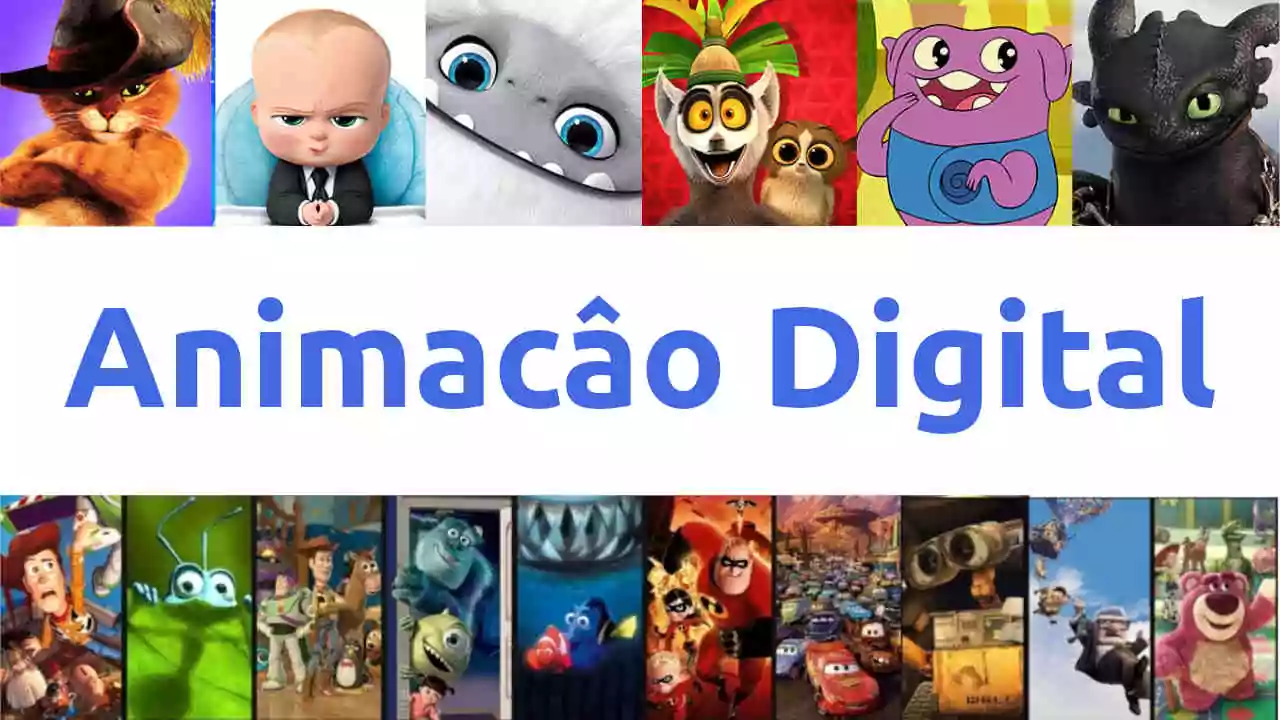
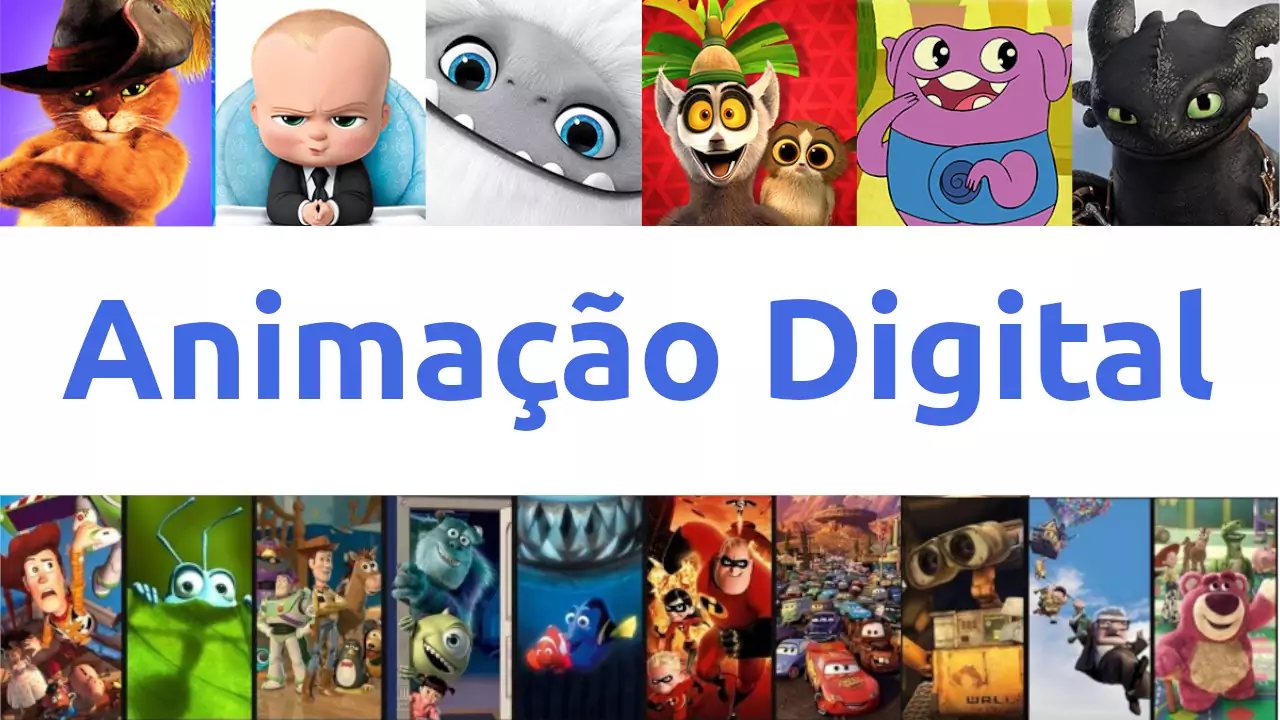
Renomeando arquivos de imagem

diff --git a/animacao/animacaoArtistas.php b/animacao/animacaoArtistas.php
@@ -9,7 +9,7 @@
                 <div class="col-md-12">
                     <img class="img-fluid  align-items-center" alt=" Foto de Alvy Ray Smith "
                         style='float:left;width:500px; margin-right:20px;'
-                        src="../imagem/animacao/animacaoAlvyRaySmith.jpg" />
+                        src="../imagem/animacao/animacaoAlvyRaySmith.webp" />
                     <h2 class=" text-center animacaoh1">Alvy Ray Smith</h2>
                     <p class=" text-justify">Alvy Ray Smith (Mineral Wells, Texas, 8 de setembro de 1943) é um
                         engenheiro estadunidense e um pioneiro da computação gráfica.
@@ -48,7 +48,7 @@
             <div class="row">
                 <div class="col-md-4">
                     <img class="img-fluid  align-items-center" alt=" Foto de Alvy Ray Smith "
-                        style='width:100%; margin-top:20px;' src="../imagem/animacao/animacaoNeilHuxley.jpeg" />
+                        style='width:100%; margin-top:20px;' src="../imagem/animacao/animacaoNeilHuxley.webp" />
                     <h2 class=" text-center animacaoh1">Neil Huxley</h2>
                     <p class=" text-justify">
                         Na esfera comercial, a ação ao vivo de Neil e a direção de efeitos visuais são celebradas por
@@ -59,7 +59,7 @@
                         vivo e baseados em FX, que incluem o trailer de lançamento de Transformers: Fall of Cybertron,
                         Mad Max, Rise of the Tomb Raider e Assassin's Creed Unity, além de vários filmes </p>
                     <img class="img-fluid  align-items-center" alt=" Foto de Alvy Ray Smith "
-                        style='width:100%; margin-top:20px;' src="../imagem/animacao/animacaoRay.jpg" />
+                        style='width:100%; margin-top:20px;' src="../imagem/animacao/animacaoRay.webp" />
                     <h2 class=" text-center animacaoh1">Ray Harryhausen </h2>
                     <p class=" text-justify">Ray Harryhausen (Los Angeles, 29 de junho de 1920 - 7 de maio de 2013 )
                         nascido como Raymond Frederick Harryhausen foi um profissional da área de animação stop motion,
@@ -85,11 +85,11 @@
                         série de televisão Hi Hi Puffy AmiYumi. Hoje ele está novamente na House of Mouse, novamente
                         projetando para recursos animados.</p>
                     <img class="img-fluid  align-items-center" alt=" Foto de Alvy Ray Smith "
-                        style='width:100%;  margin-top:20px;' src="../imagem/animacao/animacaoMike.jpg" />
+                        style='width:100%;  margin-top:20px;' src="../imagem/animacao/animacaoMike.webp" />
                 </div>
                 <div class="col-md-4">
                     <img class="img-fluid  align-items-center" alt=" Foto de Alvy Ray Smith "
-                        style='width:100%;   margin-top:20px;' src="../imagem/animacao/animacaoFausto.jpg" />
+                        style='width:100%;   margin-top:20px;' src="../imagem/animacao/animacaoFausto.webp" />
                     <h2 class=" text-center animacaoh1">Alvy Ray Smith</h2>
                     <p class=" text-justify">"Comecei minha carreira trabalhando para a indústria de propaganda no
                         Brasil,
@@ -112,10 +112,10 @@
                 <div class="col-md-12">
                     <img class="img-fluid  align-items-center" alt="Logotipo da"
                         style=' width:100%; margin: 20px auto 20px auto;'
-                        src="../imagem/animacao/animacaoPixarLogo.jpg" />
+                        src="../imagem/animacao/animacaoPixarLogo.webp" />
                     <img class="img-fluid  align-items-center" alt=""
                         style='float:right ;width:500px; margin-left:20px;'
-                        src="../imagem/animacao/animacaoJohnAlanLasseter.jpg" />
+                        src="../imagem/animacao/animacaoJohnAlanLasseter.webp" />
                     <h2 class=" text-center animacaoh1">John Alan Lasseter</h2>
                     <p class=" text-justify">John Alan Lasseter (Los Angeles, 12 de janeiro de 1957) é um diretor e
                         produtor americano. Ele é mais conhecido por ser o diretor de criação da Pixar, Walt Disney
@@ -130,7 +130,7 @@
                         Lasseter também supervisiona todos os filmes da Walt Disney Animation Studios (e DisneyToon
                         Studios) e projetos associados como produtor executivo.
                         Ele ganhou dois Oscar, por melhor curta-metragem de animação (por Tin Toy), além de um Prêmio de
-                        Realização Especial (por Toy Story).[2]</p>
+                        Realização Especial (por Toy Story).</p>
                     <h3 class=" text-center animacaoh1">Carreira</h3>
                     <p class=" text-justify">Em 1979, depois de ganhar certo prestigio na CalArts ao receber um Student
                         Academy Awards, prêmio de votação popular da facudade para trabalhos de estudantes, pelo seu
@@ -141,7 +141,7 @@
                         Awards, desta vez por "Nitemare", curta que escreveu e dirigiu como trabalho de seu último ano.
                         <img class="img-fluid  align-items-center" alt="Duas luminarias olhanda para uma bola"
                             style='float:left ;width:500px; margin:20px 20px 20px 0px;'
-                            src="../imagem/animacao/animacaoWallb.jpg" />
+                            src="../imagem/animacao/animacaoWallb.webp" />
                         Foi dentro dos seus cinco anos de trabalho como animador na Disney que John teve sua primeira
                         experiência em animação digital. Durante a produção do filme TRON, de 1982, que misturava atores
                         com computação gráfica, que Lasseter vislumbrou o poder que a nova tecnologia podia gerar. Com o
@@ -169,7 +169,7 @@
                         investir outros cinco em capital.
                         <img class="img-fluid  align-items-center" alt="Duas luminarias olhanda para uma bola"
                             style='float:right ;width:500px; margin:20px 0px 20px 20px;'
-                            src="../imagem/animacao/animacaoluxojr.jpg" />
+                            src="../imagem/animacao/animacaoluxojr.webp" />
                         Com um novo dono, novos recursos e um foco diferente para se trabalhar, a
                         então divisão da Lucasfilm virou a Pixar Inc., empresa que continuava a desenvolver hardware
                         para animação digital, mas que mantinha John Lasseter na folha de pagamento como "chefe de

diff --git a/animacao/animacaoGaleria.php b/animacao/animacaoGaleria.php
@@ -6,40 +6,40 @@
     <section class="animacaoGaleria">
         <div class=" row imagensGaleria">
             <div class=" col-lg-3 galeria ">
-                <a><img src="../imagem/animacao/animacaoAlvyRaySmith.jpg"style="width:90%" ></a>
-                <a><img src="../imagem/animacao/animacaoStarTrekEspecial.jpg" style="width:90%"></a>
-                <a><img src="../imagem/animacao/animacaoTinToy.jpg" style="width:90%" ></a>
-                <a><img src="../imagem/animacao/animacaoMike.jpg" style="width:90%"></a>
-                <a><img src="../imagem/animacao/animacaoFrozen.jpg" style="width:90%"></a>
-                <a><img src="../imagem/animacao/animacaoTinToy.jpg" style="width:90%"></a>
-                <a><img src="../imagem/animacao/animacaoWallb.jpg"style="width:90%"></a>
+                <a><img src="../imagem/animacao/animacaoAlvyRaySmith.webp"style="width:90%" ></a>
+                <a><img src="../imagem/animacao/animacaoStarTrekEspecial.webp" style="width:90%"></a>
+                <a><img src="../imagem/animacao/animacaoTinToy.webp" style="width:90%" ></a>
+                <a><img src="../imagem/animacao/animacaoMike.webp" style="width:90%"></a>
+                <a><img src="../imagem/animacao/animacaoFrozen.webp" style="width:90%"></a>
+                <a><img src="../imagem/animacao/animacaoTinToy.webp" style="width:90%"></a>
+                <a><img src="../imagem/animacao/animacaoWallb.webp"style="width:90%"></a>
             </div>
             <div class=" col-lg-3 galeria ">
-                <a><img src="../imagem/animacao/animacaoJohnAlanLasseter.jpg"style="width:90%" ></a>
-                <a><img src="../imagem/animacao/animacaoJohnAlanLasseter.jpg" style="width:90%"></a>
-                <a><img src="../imagem/animacao/animacaoCraigGood.jpg" style="width:90%" ></a>
-                <a><img src="../imagem/animacao/animacaoFausto.jpg" style="width:90%"></a>
-                <a><img src="../imagem/animacao/animacaoNeilHuxley.jpeg" style="width:90%"></a>
-                <a><img src="../imagem/animacao/animacaoTinToy.jpg" style="width:90%"></a>
-                <a><img src="../imagem/animacao/animacaoWallb.jpg"style="width:90%"></a>
+                <a><img src="../imagem/animacao/animacaoJohnAlanLasseter.webp"style="width:90%" ></a>
+                <a><img src="../imagem/animacao/animacaoJohnAlanLasseter.webp" style="width:90%"></a>
+                <a><img src="../imagem/animacao/animacaoCraigGood.webp" style="width:90%" ></a>
+                <a><img src="../imagem/animacao/animacaoFausto.webp" style="width:90%"></a>
+                <a><img src="../imagem/animacao/animacaoNeilHuxley.webp" style="width:90%"></a>
+                <a><img src="../imagem/animacao/animacaoTinToy.webp" style="width:90%"></a>
+                <a><img src="../imagem/animacao/animacaoWallb.webp"style="width:90%"></a>
             </div>
             <div class=" col-lg-3 galeria ">
-                <a><img src="../imagem/animacao/animacaoCraigGood.jpg"style="width:90%" ></a>
-                <a><img src="../imagem/animacao/animacaoJohnAlanLasseter.jpg" style="width:90%"></a>
-                <a><img src="../imagem/animacao/animacaoCraigGood.jpg" style="width:90%" ></a>
-                <a><img src="../imagem/animacao/animacaoFausto.jpg" style="width:90%"></a>
-                <a><img src="../imagem/animacao/animacaoNeilHuxley.jpeg" style="width:90%"></a>
-                <a><img src="../imagem/animacao/animacaoTinToy.jpg" style="width:90%"></a>
-                <a><img src="../imagem/animacao/animacaoWallb.jpg"style="width:90%"></a>
+                <a><img src="../imagem/animacao/animacaoCraigGood.webp"style="width:90%" ></a>
+                <a><img src="../imagem/animacao/animacaoJohnAlanLasseter.webp" style="width:90%"></a>
+                <a><img src="../imagem/animacao/animacaoCraigGood.webp" style="width:90%" ></a>
+                <a><img src="../imagem/animacao/animacaoFausto.webp" style="width:90%"></a>
+                <a><img src="../imagem/animacao/animacaoNeilHuxley.webp" style="width:90%"></a>
+                <a><img src="../imagem/animacao/animacaoTinToy.webp" style="width:90%"></a>
+                <a><img src="../imagem/animacao/animacaoWallb.webp"style="width:90%"></a>
             </div>
             <div class=" col-lg-3 galeria ">
-                <a><img src="../imagem/animacao/animacaoFausto.jpg"style="width:90%" ></a>
-                <a><img src="../imagem/animacao/animacaoJohnAlanLasseter.jpg" style="width:90%"></a>
-                <a><img src="../imagem/animacao/animacaoCraigGood.jpg" style="width:90%" ></a>
-                <a><img src="../imagem/animacao/animacaoFausto.jpg" style="width:90%"></a>
-                <a><img src="../imagem/animacao/animacaoNeilHuxley.jpeg" style="width:90%"></a>
-                <a><img src="../imagem/animacao/animacaoTinToy.jpg" style="width:90%"></a>
-                <a><img src="../imagem/animacao/animacaoWallb.jpg"style="width:90%"></a>
+                <a><img src="../imagem/animacao/animacaoFausto.webp"style="width:90%" ></a>
+                <a><img src="../imagem/animacao/animacaoJohnAlanLasseter.webp" style="width:90%"></a>
+                <a><img src="../imagem/animacao/animacaoCraigGood.webp" style="width:90%" ></a>
+                <a><img src="../imagem/animacao/animacaoFausto.webp" style="width:90%"></a>
+                <a><img src="../imagem/animacao/animacaoNeilHuxley.webp" style="width:90%"></a>
+                <a><img src="../imagem/animacao/animacaoTinToy.webp" style="width:90%"></a>
+                <a><img src="../imagem/animacao/animacaoWallb.webp"style="width:90%"></a>
             </div>
         </div>
     </section>

diff --git a/animacao/animacaoSobre.php b/animacao/animacaoSobre.php
@@ -7,7 +7,7 @@
             <h1 class=" text-center animacaoh1 ">História da Animação Digital</h1>
             <div class="row">
                 <div class="col-md-12">
-                    <img src="../imagem/animacao/animacaoInicio.jpg" alt="Ivan Sutherland e sua caneta óptica"
+                    <img src="../imagem/animacao/animacaoInicio.webp" alt="Ivan Sutherland e sua caneta óptica"
                         class="img-fluid  align-items-center" style='float:left;width:500px; margin-right:20px;' />
                     <p class=" text-justify">A história da animação digital está diretamente relacionada com
                         a história da computação gráfica. Desde os primeiros dispositivos
@@ -37,7 +37,7 @@
             <div class="row">
                 <div class="col-md-12">
                 <h2 class=" text-center animacaoh1 ">Mas o que é Animaçã Digital</h2>
-                    <img src="../imagem/animacao/animacaoTrabalhando.jpg"
+                    <img src="../imagem/animacao/animacaoTrabalhando.webp"
                         alt="Imagen de um tela de computador animando uma imagem" class="img-fluid  align-items-center"
                         style='float:right;width:400px; margin-left:20px;' />
                     <p class=" text-justify">A animação digital é a arte de criar imagens em movimento
@@ -73,7 +73,7 @@
                     <h2 class=" text-center animacaoh1 ">Inicio no Cinema</h2>
                     <img class="img-fluid  align-items-center" alt="Cena da Primeira animação reconhecida "
                         style='float:left;width:300px; margin-right:20px;'
-                        src="../imagem/animacao/animacaoFantasmagol.gif" />
+                        src="../imagem/animacao/animacaoFantasmagol.webp" />
                     <p class=" text-justify">A primeira animação reconhecida é de Émile Courtet e se concretizou em
                         1892, sendo reproduzida em um projetor na cidade de Paris. Já o primeiro longa-metragem
                         animado Foi El Apóstol (1917), de um diretor argentino que inspirou toda a geração de
@@ -120,7 +120,7 @@
                     <aside>
                         <aside><img class="img-fluid  align-items-center" alt="Imagem de da capa da animação tintoY"
                                 style='float:left;width:100px; margin-right:20px;'
-                                src="../imagem/animacao/animacaoFrozen.jpg" />
+                                src="../imagem/animacao/animacaoFrozen.webp" />
                             <p class=" text-justify"><b>Frozen </b>Uma Aventura Congelante, Bilheteria mundial:
                                 US$ 1,27 bilhão.
                                 Frozen foi recebido com alamação pela crítica e público em
@@ -131,7 +131,7 @@
                         </aside>
                         <aside><img class="img-fluid  align-items-center" alt="Imagem de da capa da animação Minions"
                                 style='float:left;width:100px; margin-right:20px;'
-                                src="../imagem/animacao/animacaoMinions.jpg" />
+                                src="../imagem/animacao/animacaoMinions.webp" />
                             <p class=" text-justify"><b>Minons </b>Bilheteria mundial: US$ 1,14 bilhão, Estúdio:
                                 Universal. Embora não tenha tido sucesso de crítica, o filme foi um enorme sucesso
                                 de bilheteria, arrecadando mais de $1,1 bilhão de dólares, sendo a quarta animação
@@ -140,7 +140,7 @@
                         <aside><img class="img-fluid  align-items-center"
                                 alt="Imagem de da capa da animação Toy History"
                                 style='float:left;width:100px; margin-right:20px;'
-                                src="../imagem/animacao/animacaoToyHistory.jpg" />
+                                src="../imagem/animacao/animacaoToyHistory.webp" />
                             <p class=" text-justify"><b>Toy History </b>é um filme de animação, aventura e comédia
                                 americano lançado em 1995. É conhecido por ser o primeiro filme da história do
                                 cinema a
@@ -151,7 +151,7 @@
                         </aside>
                         <aside><img class="img-fluid  align-items-center" alt="Imagem de da capa da animação tintoY"
                                 style='float:left;width:100px; margin-right:20px;'
-                                src="../imagem/animacao/animacaoTinToy.jpg" />
+                                src="../imagem/animacao/animacaoTinToy.webp" />
                             <p class=" text-justify">Não poderiamos deixar de falar sobre<b>Tin Toy </b> que é um
                                 curta-metragem animado por computador feito
                                 pela Pixar Animation Studios e dirigido por John Lasseter. Este curta pode ser

diff --git a/include/section.php b/include/section.php
@@ -11,7 +11,7 @@
                 echo '../animacao/animacao.php';
             }
             ?>
-            " style="text-decoration:none;color:black;"><img src="../imagem/animacao/animacaoLogo.gif"
+            " style="text-decoration:none;color:black;"><img src="../imagem/animacao/home.webp"
                     alt="Logo do Portal Animação Digital" style="width:90%">
                 <h5 class="card-title  animacaoh1 ">Por trás da Animação digital</h5>
                 <p class="card-text">Conheça a historia da Animação suas Tecnicas e profissionais de destaques
@@ -27,7 +27,7 @@
                 echo '../servicos/quemSomos.php';
             }
             ?>
-            " style="text-decoration:none;color:black;"><img src="../imagem/animacao/fatec.jpg"
+            " style="text-decoration:none;color:black;"><img src="../imagem/animacao/fatec.webp"
                     alt="Pintura da fachada da fatec São Roque " style="width:90%">
                 <h5 class="card-title animacaoh1 ">PORTAL PIXELS</h5>
                     <p class="text-left">Grupo de desenvolvedores da fatec São Roque Criam o PORTAL PIXELS <b>Saiba Mais
@@ -44,7 +44,7 @@
                 echo '../desenho/desenho.php';
             }
             ?>
-            " style="text-decoration:none;color:black;"><img src="../imagem/vetoriais.jpg"
+            " style="text-decoration:none;color:black;"><img src="../imagem/vetoriais.webp"
                     alt="Logo da Pagina Desenho Vetorial" style="width:90%">
                 <h5 class="card-title  animacaoh1">Desenho Vetorial</h5>
                 <p class="text-left">Coloque Seu Texto e Anexe a endereço da sua imagem no includer section.php <b>Saiba Mais...</b></p>
@@ -86,7 +86,7 @@
                 echo '../servicos/carreira.php';
             }
             ?>
-            " style="text-decoration:none;color:black;"><img src="../imagem/carreira.jpg"
+            " style="text-decoration:none;color:black;"><img src="../imagem/carreira.webp"
                     alt="Imagem peguntando o que você que faze, sobre profissão" style="width:90%">
                 <h5 class="card-title  animacaoh1">Junte-se a nós</h5>
                 <p class="text-left">venha fazer parte dessa equipe, e juntos vamos aumentar ainda mais o nosso alcance <b>Cadastre - se</b></p></a>
@@ -100,7 +100,7 @@
                 echo '../ilustracao/ilustracao.php';
             }
             ?>
-            " style="text-decoration:none;color:black;"><img src="../imagem/ilustracao.png"
+            " style="text-decoration:none;color:black;"><img src="../imagem/ilustracao.webp"
                     alt="Logo do portal ilustraçao digital" style="width:90%"></a>
             <h5 class="card-title  animacaoh1">Ilustração Digital</h5>
             <p class=" text-left">Coloque Seu Texto e Anexe a endereço da sua imagem no includer section.php <b>Saiba
@@ -113,7 +113,7 @@
                 echo '../ilustracao/ilustracao.php';
             }
             ?>
-            " style="text-decoration:none;color:black;"><img src="../imagem/modelagem.png"
+            " style="text-decoration:none;color:black;"><img src="../imagem/modelagem.webp"
                     alt="Logo da pagina modelagme 3d" style="width:90%">
                 <h5 class="card-title  animacaoh1">Modelagem 3D</h5>
                 <p class=" text-left">Coloque Seu Texto e Anexe a endereço da sua imagem no includer section.php <b>Saiba

diff --git a/servicos/quemSomos.php b/servicos/quemSomos.php
@@ -20,25 +20,25 @@ include '../include/header.php'; ?>
             </div>
             <!-- CARD do desenvolvedor Animação Digital -->
             <div class="card dev1">
-                <img class="card-img-top" src="../imagem/user.png" alt="Card image cap">
+                <img class="card-img-top" src="../imagem/animacao/animacaoSandro.webp" alt="Card image cap">
                 <div class="card-body">
-                    <h5 class="card-title text-center">Sandro</h5>
+                    <h5 class="card-title text-center">Sandro Amâncio de Sá</h5>
                     <p class="text-center mb-1">RA: 2650831923001</p>
-                    <p class="text-center mt-1">Scrum Master, Arquitetura de TI, dev Front-End and back-End</p>
+                    <p class="text-center mt-1">Scrum Master, TI Architecture, dev Front-End and back-End</p>
                     <hr>
                     <p class="card-text">Ser desenvolvedor é uma viagem onde a próxima parada é a solução de um problema.</p>
                     <p>
-                        <ul class="ul-inline animacao">
+                        <ul class="list-inline animacao text-center">
                             <!-- Font Awesome - Linkedin -->
-                            <li>
+                            <li class="list-inline-item">
                                 <a href="https://www.linkedin.com/in/sandro-a-56424276/" target="_blank"><i class="fab fa-linkedin"></i></a>
                             </li>
                             <!-- Font Awesome - Github -->
-                            <li>
+                            <li class="list-inline-item">
                                 <a href="https://github.com/sandrosa1" target="_blank"><i class="fab fa-github-square"></i></a>
                             </li>
                             <!-- Font Awesome - Instagram -->
-                            <li>
+                            <li class="list-inline-item">
                                 <a href="" target="_blank"><i class="fab fa-instagram-square"></i></a>
                             </li>
                         </ul>

diff --git a/animacao/animacaoTecnicas.php b/animacao/animacaoTecnicas.php
@@ -9,7 +9,7 @@
                 <div class="col-md-12">
                     <img class="img-fluid  align-items-center" alt="Tela com um progroma flash em execução"
                         style='float:left;max-width:300px; margin-right:20px;'
-                        src="../imagem/animacao/animacaoFlash.jpg" />
+                        src="../imagem/animacao/animacaoFlash.webp" />
                     <h4 class=" text-center animacaoh1 ">Flash</h4>
                     <p class=" text-justify">Flash é um tipo de animação originalmente criadas no programa Macromedia
                         Flash e tinham suporte basicamente à animação 2D vetorial. Já atualmente, podem ser criadas no
@@ -22,7 +22,7 @@
                     <img class="img-fluid  align-items-center"
                         alt="Imagem de um coelho de boneco e um desenho de coelho"
                         style='float:left;max-width:300px; margin-right:20px;'
-                        src="../imagem/animacao/animacaoCelShading.jpg" />
+                        src="../imagem/animacao/animacaoCelShading.webp" />
                     <h4 class=" text-center animacaoh1 ">Cel Shading</h4>
                     <p class=" text-justify">Cel shading, também conhecido como toon shading é um conjunto de técnicas
                         empregadas na renderização de imagens 3D de modo que o resultado final se assemelhe ao de
@@ -45,7 +45,7 @@
                     <hr>
                     <img class="img-fluid  align-items-center" alt="Apresentação do primeiro jogo feito em Machinima"
                         style='float:left;max-width:300px; margin-right:20px;'
-                        src="../imagem/animacao/animacaoQuake.png" />
+                        src="../imagem/animacao/animacaoQuake.webp" />
                     <h4 class=" text-center animacaoh1 ">Machinima</h4>
                     <p class=" text-justify">Machinima, termo criado pela junção das palavras inglesas machine
                         (máquina), animation (animação) e cinema, é tanto uma técnica de produção fílmica quanto o filme

diff --git a/index.php b/index.php
@@ -55,8 +55,8 @@
     </article>
     <!--//////////////////////////////////////                 /////////////////////////////////////////////////////-->
     <!--Inicio do segundo Layout 2 colunas-->
-    <section class="index-margin">
-    <?php include '../include/section.php'?>
+    <section>
+        <?php include 'include/section.php'?>
     </section>
     <!--////                                                                                                        /-->
 </div>

diff --git a/animacao/animacao.php b/animacao/animacao.php
@@ -2,7 +2,7 @@
 <?php $page = 'animacao' ; include '../include/header.php'; ?>
 <!--A Pagina tem que estar dentro do container-fluid para nõa quebrar-->
 <div class="container-fluid" id="inicio">
-<img src="../imagem/animacao/animacaoLogo.gif" class="img-fluid" alt="Imagem responsiva">
+<img src="../imagem/animacao/home.webp" class="img-fluid" alt="Imagem responsiva">
 
 </div>
 <?php include '../include/footer.php'?>
